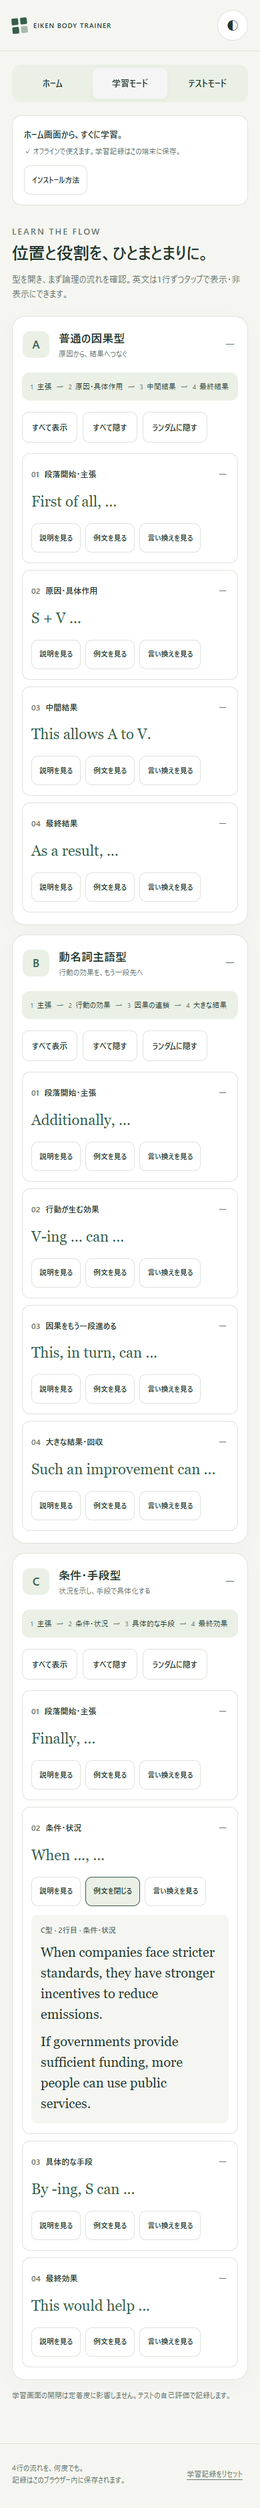
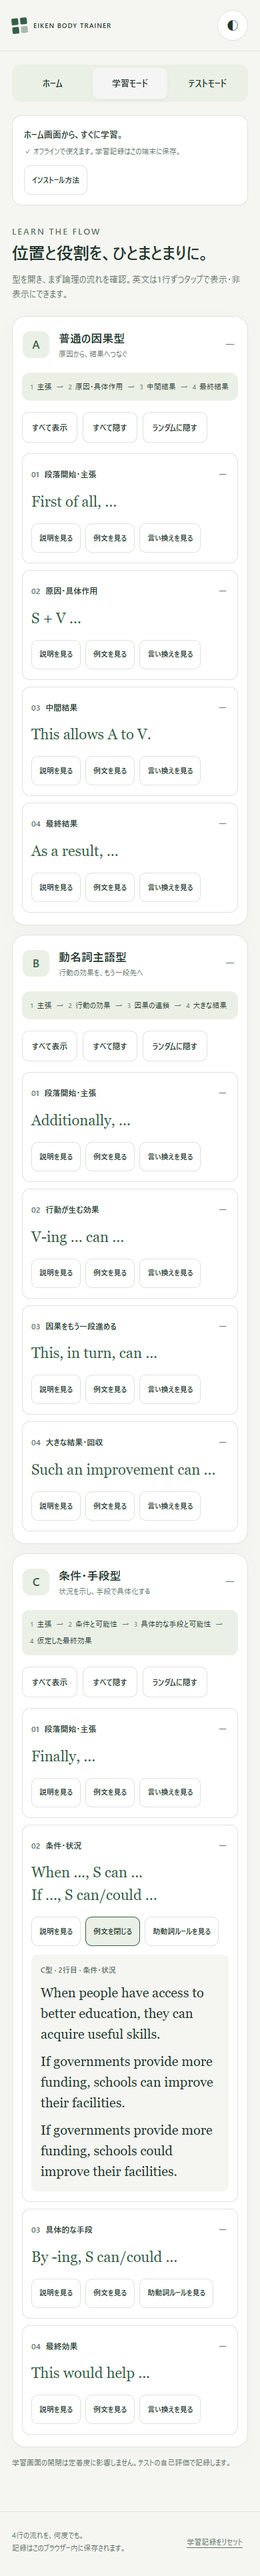
Update EIKEN Body C modal rules

Changed region(s): [[0.0308, 0.0311, 0.9231, 0.995], [0.5538, 0.9328, 0.8, 0.995]]

diff --git a/index.html b/index.html
@@ -17,6 +17,8 @@
 :root[data-theme=dark]{--bg:#17211d;--surface:#202e26;--ink:#ecf1e9;--muted:#adbeb2;--line:#3b4c40;--accent:#c4e3a6;--soft:#2b3d30;--lime:#d7ed9b;--orange:#efb17d;--shadow:none;--danger:#ffaaa3;color-scheme:dark}
 *{box-sizing:border-box}body{margin:0;background:var(--bg);color:var(--ink);font-family:system-ui,-apple-system,"Segoe UI","Yu Gothic",sans-serif;font-size:15px;line-height:1.7}button,select{font:inherit}button{cursor:pointer;color:inherit}button:disabled{cursor:default;opacity:.5}button:focus-visible,select:focus-visible,summary:focus-visible{outline:3px solid var(--orange);outline-offset:4px}button,select{touch-action:manipulation}button{min-height:46px}button:hover{filter:brightness(.96)}[hidden]{display:none!important}.wrap{max-width:980px;margin:auto;padding:0 28px}header{border-bottom:1px solid var(--line)}.header{display:flex;align-items:center;justify-content:space-between;gap:12px;min-height:89px}.brand{display:flex;gap:12px;align-items:center;font-size:13px;font-weight:800;letter-spacing:1.5px;background:none;border:0;padding:0;text-align:left}.mark{display:grid;grid-template-columns:repeat(2,10px);gap:3px;transform:rotate(-6deg)}.mark i{width:10px;height:10px;border-radius:2px;background:var(--accent)}.mark i:last-child{opacity:.4}.header-end{display:flex;align-items:center;gap:15px}.offline{font-size:11px;letter-spacing:1px;color:var(--muted)}.offline:before{content:'●';color:var(--accent);margin-right:7px}.icon-btn{border:1px solid var(--line);border-radius:50%;width:46px;background:var(--surface);font-size:18px}.navigation{display:flex;gap:4px;background:var(--soft);padding:5px;border-radius:13px;width:fit-content;margin:26px 0 0}.navigation button{border:0;background:transparent;border-radius:9px;padding:7px 23px;font-size:13px;font-weight:650}.navigation button[aria-current=page]{background:var(--surface);box-shadow:0 2px 8px #00000007}main{padding:34px 0 52px}.eyebrow{font-size:11px;font-weight:700;letter-spacing:2px;color:var(--accent);margin:0 0 12px}.hero{display:grid;grid-template-columns:1.45fr 1fr;gap:40px;align-items:center;margin:0 0 30px}.hero h1{font-size:clamp(27px,4.5vw,40px);line-height:1.5;letter-spacing:-1.4px;margin:0 0 16px}.hero h1 span{color:var(--accent)}.muted{color:var(--muted)}.hero p:not(.eyebrow){margin:0;color:var(--muted);font-size:14px}.mini-body{background:var(--soft);border:1px solid var(--line);border-radius:var(--radius);padding:23px 24px;position:relative}.mini-label{font-size:10px;letter-spacing:1.5px;font-weight:700;color:var(--muted);margin-bottom:16px}.mini-line{display:flex;align-items:center;gap:13px;margin:11px 0;font-size:13px}.mini-line span{font-size:10px;color:var(--muted);font-variant-numeric:tabular-nums}.mini-line strong{font-weight:550}.mini-line em{height:8px;background:var(--line);border-radius:5px;width:50%;display:block}.mini-line.active{padding:9px 12px;background:var(--surface);border-radius:9px;margin-inline:-12px}.mini-line.active strong{color:var(--accent)}.section-title{display:flex;align-items:baseline;justify-content:space-between;gap:10px;margin:28px 0 14px}.section-title h2{font-size:17px;margin:0}.section-title span{font-size:12px;color:var(--muted)}.mode-grid{display:grid;grid-template-columns:1fr 1fr;gap:16px}.mode-card{border:1px solid var(--line);border-radius:var(--radius);padding:24px;text-align:left;background:var(--surface);box-shadow:var(--shadow);display:grid;grid-template-columns:1fr auto;gap:5px 16px}.mode-card.primary{background:#2e503e;color:#f5f9ef;border-color:#2e503e}.mode-card .mode-icon{font-size:22px;grid-column:1}.mode-card .kicker{font-size:10px;letter-spacing:1.8px;opacity:.65;grid-column:1}.mode-card strong{font-size:23px;grid-column:1}.mode-card .desc{font-size:13px;opacity:.75;grid-column:1}.mode-card .arrow{grid-column:2;grid-row:1/5;align-self:center;background:var(--soft);border-radius:50%;width:39px;height:39px;display:grid;place-items:center;font-size:20px}.mode-card.primary .arrow{background:var(--lime);color:#263d2d}.stats{display:grid;grid-template-columns:repeat(3,1fr);gap:0;margin:28px 0;border:1px solid var(--line);border-radius:16px;background:var(--surface);padding:18px 0}.stat{text-align:center;border-right:1px solid var(--line)}.stat:last-child{border:0}.stat strong{font-size:25px;font-weight:700;display:block;line-height:1.35}.stat strong small{font-size:12px;font-weight:400;margin-left:3px}.stat span{font-size:11px;color:var(--muted)}.mastery-grid{display:grid;grid-template-columns:repeat(2,1fr);gap:12px}.mastery-card{border:1px solid var(--line);background:var(--surface);border-radius:14px;padding:17px 19px}.mastery-top{display:flex;justify-content:space-between;align-items:center;gap:8px}.mastery-name{font-size:13px;font-weight:600}.letter{display:inline-grid;place-items:center;background:var(--soft);color:var(--accent);width:27px;height:27px;border-radius:7px;margin-right:8px;font-weight:700;font-size:12px}.mastery-top strong{font-size:17px;color:var(--accent)}.bar{height:5px;background:var(--soft);border-radius:5px;overflow:hidden;margin:13px 0 8px}.bar span{height:100%;display:block;background:var(--accent);border-radius:5px}.mastery-card small{font-size:10px;color:var(--muted)}.method{margin:27px 0 0;padding:20px;border:1px dashed var(--line);border-radius:14px;display:flex;gap:18px;align-items:center}.method .big{font-size:23px}.method strong{font-size:13px}.method p{margin:4px 0 0;color:var(--muted);font-size:12px}.page-head{margin-bottom:22px}.page-head h1{font-size:28px;margin:0 0 7px;letter-spacing:-.5px}.page-head p{margin:0;font-size:13px;color:var(--muted)}.pattern{background:var(--surface);border:1px solid var(--line);border-radius:var(--radius);margin-bottom:14px;overflow:hidden;box-shadow:var(--shadow)}.pattern-toggle{width:100%;border:0;background:transparent;display:flex;align-items:center;justify-content:space-between;text-align:left;padding:22px;gap:10px}.pattern-toggle .letter{width:40px;height:40px;font-size:17px;border-radius:11px;margin:0 14px 0 0}.pattern-toggle .title{display:flex;align-items:center}.pattern-toggle strong{font-size:19px}.pattern-toggle small{display:block;font-size:11px;color:var(--muted);font-weight:400}.chevron{color:var(--muted);font-size:22px}.pattern-content{padding:0 22px 23px}.flow{display:flex;align-items:center;gap:8px;flex-wrap:wrap;font-size:12px;background:var(--soft);border-radius:11px;padding:15px;margin:0 0 17px}.flow .flow-number{display:inline-block;font-size:10px;color:var(--muted);margin-right:5px}.flow .flow-arrow{color:var(--muted)}.tools{display:flex;gap:8px;flex-wrap:wrap;margin:16px 0}.btn{border:1px solid var(--line);border-radius:10px;padding:8px 14px;background:var(--surface);font-size:12px;font-weight:600}.btn.solid{background:var(--accent);color:var(--bg);border-color:var(--accent)}.slot{border:1px solid var(--line);border-radius:12px;margin-top:10px;overflow:hidden}.slot-toggle{display:block;background:transparent;width:100%;border:0;text-align:left;padding:16px 18px}.slot-label{display:flex;justify-content:space-between;gap:8px;align-items:center;font-size:12px;font-weight:650}.slot-label .number{color:var(--muted);margin-right:8px;font-variant-numeric:tabular-nums}.slot-label .toggle-symbol{font-size:18px;font-weight:400;color:var(--muted)}.answer-prompt{display:block;color:var(--muted);font-size:13px;margin-top:12px;border:1px dashed var(--line);border-radius:8px;padding:10px 13px;background:var(--bg)}.english{font-family:Georgia,"Times New Roman",serif;font-size:23px;line-height:1.55;overflow-wrap:anywhere}.slot-toggle .english{display:block;margin-top:9px;color:var(--accent);animation:appear .15s ease-out}.slot-details{padding:0 18px 17px}.detail-buttons{display:flex;gap:7px;flex-wrap:wrap}.detail-buttons button{font-size:11px;min-height:44px;padding:7px 11px;font-weight:500}.detail-buttons button[aria-expanded=true]{background:var(--soft);border-color:var(--accent)}.detail-content{font-size:13px;margin-top:13px;padding:14px;background:var(--bg);border-radius:9px;animation:appear .15s ease-out}.detail-content p{margin:0 0 10px}.detail-content p:last-child{margin-bottom:0}.detail-content .english{font-size:20px}.context-label{font-size:11px;font-weight:600;color:var(--muted);margin-bottom:9px}.note{font-size:12px;color:var(--muted);border-left:3px solid var(--orange);padding-left:10px;margin-top:12px!important}.test-controls{display:flex;gap:10px;justify-content:space-between;align-items:center;flex-wrap:wrap;margin:0 0 18px}.test-filters{display:flex;gap:6px;flex-wrap:wrap}.test-filters button[aria-pressed=true]{background:var(--accent);color:var(--bg);border-color:var(--accent)}select{border:1px solid var(--line);background:var(--surface);color:var(--ink);border-radius:10px;padding:10px;font-size:12px;min-height:46px;max-width:100%}.test-meta{display:flex;justify-content:space-between;align-items:center;font-size:11px;color:var(--muted);gap:10px;margin:0 0 13px}.test-meta .counter{font-variant-numeric:tabular-nums;font-weight:700}.session-bar{height:4px;background:var(--line);margin:0 0 21px;border-radius:5px;overflow:hidden}.session-bar span{display:block;height:100%;background:var(--accent)}.test-card{padding:26px;border:1px solid var(--line);border-radius:var(--radius);background:var(--surface)}.test-card h2{font-size:20px;margin:0 0 15px}.test-card .instruction{font-size:14px;margin:18px 0}.question-lines{display:grid;gap:10px;margin:17px 0}.context-row{display:flex;gap:13px;padding:9px 0;align-items:baseline}.context-row .idx{color:var(--muted);font-size:11px;flex:0 0 18px}.context-row .english{font-size:21px}.blank{display:block;width:100%;border:1px dashed var(--accent);background:var(--soft);border-radius:10px;padding:14px;color:var(--accent);font-size:13px}.reveal-btn{width:100%;min-height:60px;border:1px dashed var(--accent);border-radius:12px;background:var(--soft);color:var(--accent);font-weight:600;font-size:14px;margin-top:15px}.test-answer{border-top:1px solid var(--line);margin-top:21px;padding-top:19px;animation:appear .15s ease-out}.test-answer p{margin:8px 0}.test-answer .english{color:var(--accent)}.rating-label{font-size:12px;color:var(--muted);margin:23px 0 9px}.ratings{display:grid;grid-template-columns:repeat(3,1fr);gap:9px}.ratings button{border:1px solid var(--line);background:var(--bg);border-radius:11px;min-height:56px;font-weight:650;font-size:14px}.ratings button:first-child{background:var(--soft);color:var(--accent)}.ratings button:last-child{color:var(--danger)}.test-tip{text-align:center;font-size:11px;color:var(--muted);margin-top:18px}.completion{text-align:center;padding:35px 10px}.completion .medal{font-size:40px}.completion h2{font-size:23px}.completion .tools{justify-content:center}.feedback{font-size:12px;color:var(--accent);min-height:25px;margin:12px 0 0}.warning{background:var(--soft);border:1px solid var(--orange);border-radius:10px;padding:12px;font-size:12px;margin:20px 0;color:var(--ink)}footer{border-top:1px solid var(--line);padding:22px 0 28px;color:var(--muted);font-size:11px}.footer-content{display:flex;justify-content:space-between;align-items:center;gap:12px;flex-wrap:wrap}.reset-btn{border:0;background:none;color:var(--muted);font-size:11px;text-decoration:underline;text-underline-offset:4px;padding:8px}.fine{font-size:11px;color:var(--muted);margin-top:12px}.sr-only{position:absolute;width:1px;height:1px;padding:0;margin:-1px;overflow:hidden;clip:rect(0,0,0,0);white-space:nowrap;border:0}@keyframes appear{from{opacity:.25}to{opacity:1}}@media(prefers-reduced-motion:reduce){*{animation:none!important}}@media(max-width:640px){.wrap{padding:0 18px}.header{min-height:76px}.brand{font-size:10px;letter-spacing:1px;gap:9px}.offline{display:none}.header-end{gap:6px}.navigation{margin-top:20px;width:100%}.navigation button{flex:1;padding:7px 8px}.hero{grid-template-columns:1fr;gap:22px;margin-bottom:24px}.hero h1{letter-spacing:-.8px}.mini-body{padding:18px 21px}.mini-label{margin-bottom:9px}.mini-line{margin:7px 0}.mode-grid{gap:10px}.mode-card{padding:18px 15px;gap:5px}.mode-card strong{font-size:20px}.mode-card .desc{font-size:11px}.mode-card .arrow{grid-row:1;width:30px;height:30px;font-size:17px}.mode-card .kicker{font-size:9px;letter-spacing:1px}.mastery-grid{grid-template-columns:1fr}.stats{margin:22px 0;padding:16px 0}.stat strong{font-size:23px}.section-title span{font-size:10px}.pattern-toggle{padding:18px 15px}.pattern-toggle strong{font-size:17px}.pattern-content{padding:0 14px 18px}.flow{gap:7px;padding:12px;font-size:11px}.slot-toggle{padding:15px 13px}.slot-details{padding:0 13px 15px}.english{font-size:22px}.test-card{padding:19px 15px}.context-row .english{font-size:20px}.test-controls{gap:12px}.test-filters .btn{padding:7px 10px;font-size:11px}.ratings{gap:7px}.ratings button{font-size:13px}.method{padding:16px;gap:12px}.page-head h1{font-size:25px}main{padding-top:28px}.test-card h2{font-size:18px}}
 .pwa-panel{margin-top:20px;padding:15px 17px;border:1px solid var(--line);border-radius:14px;background:var(--surface);display:flex;flex-wrap:wrap;gap:12px;align-items:center;justify-content:space-between}.pwa-panel strong{font-size:13px}.pwa-panel p{font-size:11px;color:var(--muted);margin:3px 0 0}.pwa-help{width:100%;border-top:1px solid var(--line);padding-top:10px}.pwa-help p{font-size:12px}
+.english{white-space:pre-line}
+.slot-toggle .english{white-space:pre-line}
 </style>
 </head>
 <body>
@@ -40,14 +42,14 @@ const PATTERNS = [
   {role:'因果をもう一段進める',base:'This, in turn, can ...',explain:'直前の結果を受け、その結果がさらに何を生むかを書く。Thisの指す内容を明確にし、同じ効果を繰り返さず因果を一段進める。',examples:['This, in turn, can increase their incomes.','This, in turn, can create more employment opportunities.'],alternatives:['In turn, this can ...','This can then ...']},
   {role:'大きな結果・回収',base:'Such an improvement can ...',explain:'ここまでの因果を、生活や社会全体への大きな効果へまとめる。Suchが受ける内容に合った名詞を選ぶ。',examples:['Such an improvement can raise living standards.','Such a change can benefit society as a whole.'],alternatives:['Such a change can ...','This could ultimately ...','This development can ...'],note:'improvement = 良い方向への変化。change = 中立的な変化。development = 発展・新たな動き。couldはcanより控えめな可能性や仮定を示す。前の文の内容と意味に合わせて選ぶ。'}
  ]},
- {id:'C',name:'条件・手段型',tag:'状況を示し、手段で具体化する',flow:['主張','条件・状況','具体的な手段','最終効果'],context:['Finally, stricter environmental standards can protect public health.','When companies face stricter standards, they have stronger incentives to reduce emissions.','By adopting cleaner technologies, companies can reduce air pollution.','This would help protect public health.'],slots:[
+ {id:'C',name:'条件・手段型',tag:'状況を示し、手段で具体化する',flow:['主張','条件と可能性','具体的な手段と可能性','仮定した最終効果'],context:['Finally, expanding investment in education can promote equal opportunity.','When people have access to better education, they can acquire useful skills.','By providing additional financial support, governments could improve access to education.','This would help reduce inequality.'],slots:[
   {role:'段落開始・主張',base:'Finally, ...',explain:'最後のBodyの理由を示す。条件や状況を置き、具体的な手段によって主張を支える。',examples:['Finally, stricter environmental standards can protect public health.','Finally, better public transport can make cities more livable.'],alternatives:['Lastly, ...']},
-  {role:'条件・状況',base:'When ..., ...',explain:'どのような状況でその効果が起こるのかを示す。状況・条件と、そのもとで起きる作用を結ぶ。',examples:['When companies face stricter standards, they have stronger incentives to reduce emissions.','If governments provide sufficient funding, more people can use public services.'],alternatives:['If ..., ...'],note:'When：実際に起こる一般的な状況。If：条件・仮定。完全な同義語として置き換えず、言いたい内容に合わせて選ぶ。',prompt:'一般的な状況ではなく、条件・仮定として書く表現と、その意味の違いを思い出してください。'},
-  {role:'具体的な手段',base:'By -ing, S can ...',explain:'「〜することで」と、結果を生む具体的な手段を書く。Byの後には動名詞。基本的にその行動をする主体を、続く文の主語Sと一致させる。',examples:['By investing in public transport, governments can reduce traffic congestion.','By adopting cleaner technologies, companies can reduce pollution.'],alternatives:['By -ing, S could ...','By -ing, S would be able to ...'],note:'can：可能・能力。could：控えめな可能性や仮定。would be able to：想定した条件のもとで可能になること。意味に応じて選ぶ。',prompt:'手段の形を保ち、可能性・仮定の強さを変える代案と、その意味の違いを思い出してください。'},
-  {role:'最終効果',base:'This would help ...',explain:'直前の手段・結果がもたらす大きな効果を示して、段落の主張を回収する。Thisの指す内容と、wouldの前提を意識する。',examples:['This would help protect the environment.','This would help reduce inequality.'],alternatives:['This could help ...','This would contribute to + N.','This could lead to + N.'],note:'helpの後は動詞の原形（またはto＋原形）。contribute to / lead toのtoは前置詞なので、その後は名詞Nまたは動名詞。couldは控えめな可能性、wouldは想定条件下の結果。contribute toは「貢献する」、lead toは「つながる」。効果に応じて選ぶ。'}
+  {role:'条件・状況',base:'When ..., S can ...\nIf ..., S can/could ...',explain:'When + 現在形：実際に起こる一般的な状況を表し、後半は基本 can を使う。\n\nIf + 現在形：条件を表し、後半は can または could。\n\ncan：条件が満たされれば「〜できる」という比較的直接的な可能性。\ncould：「〜できる可能性がある」と少し控えめに述べる。\n\n今回の基本形では If + 現在形を使う。If + 過去形, would ... の仮定法は対象にしない。',examples:['When people have access to better education, they can acquire useful skills.','If governments provide more funding, schools can improve their facilities.','If governments provide more funding, schools could improve their facilities.'],alternatives:['When + 現在形 → 後半は基本 can','If + 現在形 → 後半は can / could'],note:'When + 現在形 → can。If + 現在形 → can / could。When / Ifは状況と条件の違いを表し、完全な同義語ではありません。',prompt:'一般的な状況と条件で、When / If の後の時制と後半の助動詞をどう選ぶか思い出してください。'},
+  {role:'具体的な手段',base:'By -ing, S can/could ...',explain:'By + 動名詞で、結果を生む具体的な手段を書く。基本的にその行動をする主体を、続く文の主語Sと一致させる。\n\n一般的・実際の効果なら can：「〜することで、一般的に／実際に〜できる」。\n少し控えめな可能性なら could：「〜することで、〜できる可能性がある」。',examples:['By investing in public transport, governments can reduce traffic congestion.','By providing additional financial support, governments could improve access to education.'],alternatives:['一般的・実際の効果 → can','少し控えめな可能性 → could'],note:'By -ingの後の助動詞は、意味に合わせて can / could を選ぶ。would be able to は基本形・暗記対象から外す。',prompt:'一般的・実際の効果を述べる場合と、少し控えめな可能性を述べる場合で、それぞれ助動詞を思い出してください。'},
+  {role:'最終効果',base:'This would help ...',explain:'【まず覚える基本形】This would help ...\n\n直前までに述べた条件・手段を実行した場合に生じる結果をまとめるため、仮定した結果を示す would が自然。段落の主張をここで回収する。',examples:['This would help reduce inequality.','This would help protect public health.'],alternatives:['This could help ...','This would contribute to + N.','This could lead to + N.'],note:'まず This would help ... を覚える。helpの後は動詞の原形（またはto＋原形）。could help / could lead to は、可能性を控えめに述べる。would contribute to は条件を実行した場合の結果を述べる。contribute to / lead to のtoの後は名詞Nまたは動名詞。'}
  ]}
 ];
-const QUESTIONS=PATTERNS.flatMap(p=>[{id:p.id+'-whole',kind:'whole',pattern:p.id},...p.slots.map((s,i)=>({id:p.id+'-slot-'+i,kind:'slot',pattern:p.id,slot:i})),...p.slots.flatMap((s,i)=>s.alternatives.length?[{id:p.id+'-alt-'+i,kind:'alt',pattern:p.id,slot:i}]:[])]);
+const QUESTIONS=PATTERNS.flatMap(p=>[{id:p.id+'-whole',kind:'whole',pattern:p.id},...p.slots.map((s,i)=>({id:p.id+'-slot-'+i,kind:'slot',pattern:p.id,slot:i})),...p.slots.flatMap((s,i)=>s.alternatives.length?[{id:p.id+'-alt-'+i,kind:p.id==='C'&&(i===1||i===2)?'grammar':'alt',pattern:p.id,slot:i}]:[])]);
 const KEY='eiken-body-trainer.learning.v1';
 const emptyState=()=>({version:1,records:{},streak:0,best:0});
 let warning='',storageBlocked=false;
@@ -67,15 +69,16 @@ function mastery(qs){const total=qs.reduce((n,q)=>{const r=record(q.id);return n
 function metrics(){const rs=Object.values(state.records);return {learned:rs.filter(r=>ratingCount(r)>0).length,weak:rs.filter(r=>r.lastRating==='fail'||r.lastRating==='unsure').length};}
 function flow(p){return '<div class="flow" aria-label="論理の流れ">'+p.flow.map((s,i)=>`${i?'<span class="flow-arrow" aria-hidden="true">→</span>':''}<span><span class="flow-number">${i+1}</span>${s}</span>`).join('')+'</div>';}
 function home(){const m=metrics();return `<section class="hero"><div><p class="eyebrow">WRITE WITH A CLEAR STRUCTURE</p><h1>表現より先に、<br><span>4行の流れを覚えよう。</span></h1><p>「今、どんな役割の文を書く場所か。」<br>役割 → 基本表現 → 例文 → 言い換え。<br>短い反復で、Bodyを自分のものに。</p></div><div class="mini-body" aria-label="学習のイメージ"><div class="mini-label">A / BODY STRUCTURE</div><div class="mini-line"><span>01</span><strong>段落開始・主張</strong></div><div class="mini-line"><span>02</span><strong>原因・具体作用</strong></div><div class="mini-line active"><span>03</span><strong>中間結果</strong><span style="margin-left:auto">↗</span></div><div class="mini-line"><span>04</span><strong>最終結果</strong></div></div></section><div class="mode-grid"><button class="mode-card primary" data-action="navigate" data-view="study"><span class="mode-icon" aria-hidden="true">▤</span><span class="kicker">LEARN THE FLOW</span><strong>学習モード</strong><span class="desc">4行をタップして、構成を確認</span><span class="arrow" aria-hidden="true">→</span></button><button class="mode-card" data-action="navigate" data-view="test"><span class="mode-icon" aria-hidden="true">↻</span><span class="kicker">RECALL & REPEAT</span><strong>テストモード</strong><span class="desc">思い出す → 答えを見る → 自己評価</span><span class="arrow" aria-hidden="true">→</span></button></div><div class="stats"><div class="stat"><strong>${m.learned}<small>/ ${QUESTIONS.length}</small></strong><span>学習した問題数</span></div><div class="stat"><strong>${m.weak}<small>問</small></strong><span>△・× 苦手数</span></div><div class="stat"><strong>${state.streak}<small>回</small></strong><span>✓ 連続「言えた」</span></div></div><div class="section-title"><h2>いまの定着度</h2><span>未学習も含めた自己評価の目安</span></div><div class="mastery-grid">${[...PATTERNS.map(p=>({label:p.name,letter:p.id,qs:QUESTIONS.filter(q=>q.pattern===p.id&&q.kind!=='alt')})),{label:'言い換え',letter:'↔',qs:QUESTIONS.filter(q=>q.kind==='alt')}].map(x=>{const learned=x.qs.filter(q=>ratingCount(record(q.id))>0).length;return `<div class="mastery-card"><div class="mastery-top"><span class="mastery-name"><span class="letter">${x.letter}</span>${x.label}</span><strong>${mastery(x.qs)}%</strong></div><div class="bar"><span style="width:${mastery(x.qs)}%"></span></div><small>${learned?`${learned} / ${x.qs.length} 問を学習済み`:'未学習 · まずは4行の流れから'}</small></div>`;}).join('')}</div><p class="fine">定着度：各問題の「言えた」= 100、「怪しい」= 50、「無理」・未学習 = 0として平均。型の定着度は型まるごと＋スロット想起、言い換えは別集計です。</p><div class="method"><span class="big" aria-hidden="true">◎</span><div><strong>1セット10問。短く、何度でも。</strong><p>無理 → 怪しい → 未学習 → 言えた の順に優先。<br>苦手な「位置と役割」を、もう一度思い出そう。</p></div></div>`;}
-function details(p,s,i){const id=p.id+'-'+i;return `<div class="slot-details"><div class="detail-buttons">${[['explain','説明'],['examples','例文'],['alternatives','言い換え']].map(([k,label])=>`<button class="btn" data-action="detail" data-id="${id}" data-kind="${k}" aria-expanded="${!!detailOpen[id+'-'+k]}" aria-controls="${id+'-'+k}">${label}${detailOpen[id+'-'+k]?'を閉じる':'を見る'}</button>`).join('')}</div>${['explain','examples','alternatives'].map(k=>`<div class="detail-content" id="${id+'-'+k}" ${detailOpen[id+'-'+k]?'':'hidden'}>${detailOpen[id+'-'+k]?`<div class="context-label">${p.id}型 · ${i+1}行目 · ${s.role}</div>`+(k==='explain'?`<p>${esc(s.explain)}</p>`:k==='examples'?s.examples.map(e=>`<p class="english" lang="en">${esc(e)}</p>`).join(''):s.alternatives.length?s.alternatives.map(e=>`<p class="english" lang="en">${esc(e)}</p>`).join(''):'<p>固定フレーズの言い換えはありません。原因となる主語と動詞で具体化します。</p>')+(s.note&&k!=='examples'?`<p class="note">${esc(s.note)}</p>`:''):''}</div>`).join('')}</div>`;}
+function details(p,s,i){const id=p.id+'-'+i;return `<div class="slot-details"><div class="detail-buttons">${[['explain','説明'],['examples','例文'],['alternatives',p.id==='C'&&(i===1||i===2)?'助動詞ルール':'言い換え']].map(([k,label])=>`<button class="btn" data-action="detail" data-id="${id}" data-kind="${k}" aria-expanded="${!!detailOpen[id+'-'+k]}" aria-controls="${id+'-'+k}">${label}${detailOpen[id+'-'+k]?'を閉じる':'を見る'}</button>`).join('')}</div>${['explain','examples','alternatives'].map(k=>`<div class="detail-content" id="${id+'-'+k}" ${detailOpen[id+'-'+k]?'':'hidden'}>${detailOpen[id+'-'+k]?`<div class="context-label">${p.id}型 · ${i+1}行目 · ${s.role}</div>`+(k==='explain'?`<p>${esc(s.explain)}</p>`:k==='examples'?s.examples.map(e=>`<p class="english" lang="en">${esc(e)}</p>`).join(''):s.alternatives.length?s.alternatives.map(e=>`<p class="english" lang="en">${esc(e)}</p>`).join(''):'<p>固定フレーズの言い換えはありません。原因となる主語と動詞で具体化します。</p>')+(s.note&&k!=='examples'?`<p class="note">${esc(s.note)}</p>`:''):''}</div>`).join('')}</div>`;}
 function study(){return `<div class="page-head"><p class="eyebrow">LEARN THE FLOW</p><h1>位置と役割を、ひとまとまりに。</h1><p>型を開き、まず論理の流れを確認。英文は1行ずつタップで表示・非表示にできます。</p></div>${PATTERNS.map(p=>`<section class="pattern"><button class="pattern-toggle" data-action="pattern" data-pattern="${p.id}" aria-expanded="${studyOpen[p.id]}" aria-controls="pattern-${p.id}"><span class="title"><span class="letter">${p.id}</span><span><strong>${p.name}</strong><small>${p.tag}</small></span></span><span class="chevron" aria-hidden="true">${studyOpen[p.id]?'−':'＋'}</span></button><div class="pattern-content" id="pattern-${p.id}" ${studyOpen[p.id]?'':'hidden'}>${studyOpen[p.id]?flow(p)+`<div class="tools"><button class="btn" data-action="all" data-pattern="${p.id}" data-show="yes">すべて表示</button><button class="btn" data-action="all" data-pattern="${p.id}" data-show="no">すべて隠す</button><button class="btn" data-action="random" data-pattern="${p.id}">ランダムに隠す</button></div>`+p.slots.map((s,i)=>{const id=p.id+'-'+i;return `<div class="slot"><button class="slot-toggle" data-action="slot" data-id="${id}" aria-expanded="${!!slotOpen[id]}" aria-controls="answer-${id} details-${id}"><span class="slot-label"><span><span class="number">0${i+1}</span>${s.role}</span><span class="toggle-symbol" aria-hidden="true">${slotOpen[id]?'−':'＋'}</span></span>${slotOpen[id]?`<span id="answer-${id}" class="english" lang="en">${esc(s.base)}</span>`:`<span id="answer-${id}" class="answer-prompt">タップして答えを見る</span>`}</button><div id="details-${id}" ${slotOpen[id]?'':'hidden'}>${slotOpen[id]?details(p,s,i):''}</div></div>`;}).join(''):''}</div></section>`).join('')}<p class="fine">学習画面の開閉は定着度に影響しません。テストの自己評価で記録します。</p>`;}
-const kindLabels={whole:'型まるごと',slot:'スロット',alt:'言い換え'};
+const kindLabels={whole:'型まるごと',slot:'スロット',alt:'言い換え',grammar:'助動詞ルール'};
+const questionKindLabel=q=>kindLabels[q.kind];
 function priority(q){const r=record(q.id);return r.lastRating==='fail'?3:r.lastRating==='unsure'?2:r.lastRating===null?1:0;}
 function choose(pool,history){let eligible=pool.filter(q=>q.id!==history.at(-1));if(!eligible.length)eligible=pool;const max=Math.max(...eligible.map(priority));eligible=eligible.filter(q=>priority(q)===max);const nonRecent=eligible.filter(q=>!history.slice(-2).includes(q.id));if(nonRecent.length)eligible=nonRecent;const min=Math.min(...eligible.map(q=>record(q.id).asked));eligible=eligible.filter(q=>record(q.id).asked===min);return eligible[Math.floor(Math.random()*eligible.length)];}
 function nextQuestion(){const pool=QUESTIONS.filter(q=>(filter==='all'||q.kind===filter)&&(patternFilter==='all'||q.pattern===patternFilter));current=choose(pool,previous);previous.push(current.id);previous=previous.slice(-3);revealed=false;const r=record(current.id);r.asked++;state.records[current.id]=r;save();}
 function startSession(){completed=0;sessionGood=0;feedback='';previous=[];nextQuestion();}
-function testQuestion(){const q=current,p=PATTERNS.find(p=>p.id===q.pattern),s=p.slots[q.slot];let body='';if(q.kind==='whole'){body=flow(p)+'<p class="instruction">4行を、順番に頭の中で再生してください。</p>';}else if(q.kind==='slot'){body=`<div class="context-label">${p.id}型 · ${q.slot+1}行目 · ${s.role}</div><div class="question-lines">${p.context.map((line,i)=>`<div class="context-row"><span class="idx">0${i+1}</span>${i===q.slot?`<span class="blank">${i+1}行目を思い出してください<br>${s.role}</span>`:`<span class="english" lang="en">${esc(line)}</span>`}</div>`).join('')}</div><p class="fine">前後の文から、この位置の役割と英文を思い出します。意味がつながれば、答えと一字一句同じでなくてもOK。</p>`;}else{body=flow(p)+`<div class="context-label">${p.id}型 · ${q.slot+1}行目 · ${s.role}</div><p class="instruction">Body 1で、この表現を使いました。</p><p class="english" lang="en">${esc(s.base)}</p><p class="instruction">Body 2の同じ「${s.role}」の位置で、${s.prompt?esc(s.prompt):'重複を避ける別表現を1つ思い出してください。'}</p>`;}let answer='';if(revealed){answer=`<div class="test-answer" id="test-answer"><div class="context-label">${q.kind==='slot'?'解答例':'答え'} · ${p.id}型${q.kind!=='whole'?` · ${q.slot+1}行目 · ${s.role}`:''}</div>${q.kind==='whole'?p.slots.map((sl,i)=>`<div class="context-row"><span class="idx">0${i+1}</span><div><div class="context-label">${sl.role}</div><div class="english" lang="en">${esc(sl.base)}</div></div></div>`).join(''):q.kind==='slot'?`<p class="english" lang="en">${esc(p.context[q.slot])}</p><p class="english" lang="en">${esc(s.base)}</p><p>${esc(s.explain)}</p>`:s.alternatives.map(a=>`<p class="english" lang="en">${esc(a)}</p>`).join('')}${q.kind!=='whole'&&s.note?`<p class="note">${esc(s.note)}</p>`:''}${q.kind==='whole'&&p.id==='A'?'<p class="note">S + Vは主語＋動詞の骨格です。固定フレーズではありません。</p>':''}<p class="rating-label">思い出せた度合いを、自己評価してください。</p><div class="ratings"><button data-action="rate" data-rating="good">✓ 言えた</button><button data-action="rate" data-rating="unsure">△ 怪しい</button><button data-action="rate" data-rating="fail">× 無理</button></div></div>`;}return `<div class="test-meta"><span>${kindLabels[q.kind]}想起 · ${record(q.id).lastRating?({good:'✓ 前回：言えた',unsure:'△ 前回：怪しい',fail:'× 前回：無理'}[record(q.id).lastRating]):'未学習'}</span><span class="counter">${completed+1} / 10</span></div><div class="session-bar" aria-label="${completed}問完了"><span style="width:${completed*10}%"></span></div><section class="test-card"><p class="eyebrow">${p.id} / ${kindLabels[q.kind].toUpperCase()} RECALL</p><h2 tabindex="-1" id="question-heading">${p.id}：${p.name}</h2>${body}<button class="reveal-btn" data-action="reveal" aria-expanded="${revealed}" aria-controls="test-answer">${revealed?'答えを隠して、もう一度思い出す':'タップして答えを見る'}</button>${revealed?answer:'<div id="test-answer" hidden></div>'}</section><p class="test-tip">${metrics().weak}問が苦手 · 連続「言えた」${state.streak}回<br>無理 → 怪しい → 未学習 → 言えた を優先。直前と同じ問題は避けます。</p>`;}
-function test(){return `<div class="page-head"><p class="eyebrow">RECALL & REPEAT</p><h1>見ずに、思い出してみよう。</h1><p>頭の中で再生 → 答えを確認 → 自己評価。10問でひと区切り。</p></div><div class="test-controls"><div class="test-filters" aria-label="テスト種別">${[['all','ミックス'],['whole','型まるごと'],['slot','スロット'],['alt','言い換え']].map(([id,label])=>`<button class="btn" data-action="filter" data-filter="${id}" aria-pressed="${filter===id}">${label}</button>`).join('')}</div><label><span class="sr-only">出題する型</span><select id="pattern-filter"><option value="all">すべての型</option>${PATTERNS.map(p=>`<option value="${p.id}" ${patternFilter===p.id?'selected':''}>${p.id}：${p.name}</option>`).join('')}</select></label></div>${completed>=10?`<section class="test-card completion"><div class="medal" aria-hidden="true">◎</div><p class="eyebrow">NICE PRACTICE</p><h2 tabindex="-1" id="question-heading">10問、おつかれさまでした。</h2><p>✓ 言えた ${sessionGood} / 10問<br>次のセットでも苦手を優先します。</p><div class="tools"><button class="btn solid" data-action="continue">もう10問続ける</button><button class="btn" data-action="navigate" data-view="home">定着度を見る</button></div></section>`:testQuestion()}<p class="feedback" role="status">${esc(feedback)}</p><p class="fine">種別・型を変更すると新しい10問を始めます。すでに行った自己評価は保存されます。</p>`;}
+function testQuestion(){const q=current,p=PATTERNS.find(p=>p.id===q.pattern),s=p.slots[q.slot],kindName=questionKindLabel(q);let body='';if(q.kind==='whole'){body=flow(p)+'<p class="instruction">4行を、順番に頭の中で再生してください。</p>';}else if(q.kind==='slot'){body=`<div class="context-label">${p.id}型 · ${q.slot+1}行目 · ${s.role}</div><div class="question-lines">${p.context.map((line,i)=>`<div class="context-row"><span class="idx">0${i+1}</span>${i===q.slot?`<span class="blank">${i+1}行目を思い出してください<br>${s.role}</span>`:`<span class="english" lang="en">${esc(line)}</span>`}</div>`).join('')}</div><p class="fine">前後の文から、この位置の役割と英文を思い出します。意味がつながれば、答えと一字一句同じでなくてもOK。</p>`;}else if(q.id==='C-alt-1'){body=flow(p)+`<div class="context-label">C型 · 2行目 · 条件・状況 · 助動詞</div><p class="instruction">それぞれの状況に合う助動詞を、思い出してください。</p><p class="english" lang="en">When people have access to better education, they ______ acquire useful skills.</p><p class="english" lang="en">If governments provide more funding, schools ______ improve their facilities.</p><p class="instruction">条件の形と、後半に使う助動詞の選び方も確認します。</p>`;}else if(q.id==='C-alt-2'){body=flow(p)+`<div class="context-label">C型 · 3行目 · 具体的な手段 · 助動詞</div><p class="english" lang="en">By providing additional financial support, governments ______ improve access to education.</p><p class="instruction">一般的・実際の効果の場合と、少し控えめな可能性の場合。意味に合う形を思い出してください。</p>`;}else{body=flow(p)+`<div class="context-label">${p.id}型 · ${q.slot+1}行目 · ${s.role} · ${kindName}</div><p class="instruction">このBody位置で、意味に合う形を思い出してください。</p><p class="english" lang="en">${esc(s.base)}</p><p class="instruction">${s.prompt?esc(s.prompt):'重複を避ける別表現を1つ思い出してください。'}</p>`;}let answer='';if(revealed){answer=`<div class="test-answer" id="test-answer"><div class="context-label">${q.kind==='slot'?'解答例':'答え'} · ${p.id}型${q.kind!=='whole'?` · ${q.slot+1}行目 · ${s.role}`:''}</div>${q.kind==='whole'?p.slots.map((sl,i)=>`<div class="context-row"><span class="idx">0${i+1}</span><div><div class="context-label">${sl.role}</div><div class="english" lang="en">${esc(sl.base)}</div></div></div>`).join(''):q.kind==='slot'?`<p class="english" lang="en">${esc(p.context[q.slot])}</p><p class="english" lang="en">${esc(s.base)}</p><p>${esc(s.explain)}</p>`:s.alternatives.map(a=>`<p class="english" lang="en">${esc(a)}</p>`).join('')}${q.kind!=='whole'&&s.note?`<p class="note">${esc(s.note)}</p>`:''}${q.kind==='whole'&&p.id==='A'?'<p class="note">S + Vは主語＋動詞の骨格です。固定フレーズではありません。</p>':''}<p class="rating-label">思い出せた度合いを、自己評価してください。</p><div class="ratings"><button data-action="rate" data-rating="good">✓ 言えた</button><button data-action="rate" data-rating="unsure">△ 怪しい</button><button data-action="rate" data-rating="fail">× 無理</button></div></div>`;}return `<div class="test-meta"><span>${kindName}想起 · ${record(q.id).lastRating?({good:'✓ 前回：言えた',unsure:'△ 前回：怪しい',fail:'× 前回：無理'}[record(q.id).lastRating]):'未学習'}</span><span class="counter">${completed+1} / 10</span></div><div class="session-bar" aria-label="${completed}問完了"><span style="width:${completed*10}%"></span></div><section class="test-card"><p class="eyebrow">${p.id} / ${kindName.toUpperCase()} RECALL</p><h2 tabindex="-1" id="question-heading">${p.id}：${p.name}</h2>${body}<button class="reveal-btn" data-action="reveal" aria-expanded="${revealed}" aria-controls="test-answer">${revealed?'答えを隠して、もう一度思い出す':'タップして答えを見る'}</button>${revealed?answer:'<div id="test-answer" hidden></div>'}</section><p class="test-tip">${metrics().weak}問が苦手 · 連続「言えた」${state.streak}回<br>無理 → 怪しい → 未学習 → 言えた を優先。直前と同じ問題は避けます。</p>`;}
+function test(){return `<div class="page-head"><p class="eyebrow">RECALL & REPEAT</p><h1>見ずに、思い出してみよう。</h1><p>頭の中で再生 → 答えを確認 → 自己評価。10問でひと区切り。</p></div><div class="test-controls"><div class="test-filters" aria-label="テスト種別">${[['all','ミックス'],['whole','型まるごと'],['slot','スロット'],['grammar','助動詞ルール'],['alt','言い換え']].map(([id,label])=>`<button class="btn" data-action="filter" data-filter="${id}" aria-pressed="${filter===id}">${label}</button>`).join('')}</div><label><span class="sr-only">出題する型</span><select id="pattern-filter"><option value="all">すべての型</option>${PATTERNS.map(p=>`<option value="${p.id}" ${patternFilter===p.id?'selected':''}>${p.id}：${p.name}</option>`).join('')}</select></label></div>${completed>=10?`<section class="test-card completion"><div class="medal" aria-hidden="true">◎</div><p class="eyebrow">NICE PRACTICE</p><h2 tabindex="-1" id="question-heading">10問、おつかれさまでした。</h2><p>✓ 言えた ${sessionGood} / 10問<br>次のセットでも苦手を優先します。</p><div class="tools"><button class="btn solid" data-action="continue">もう10問続ける</button><button class="btn" data-action="navigate" data-view="home">定着度を見る</button></div></section>`:testQuestion()}<p class="feedback" role="status">${esc(feedback)}</p><p class="fine">種別・型を変更すると新しい10問を始めます。すでに行った自己評価は保存されます。</p>`;}
 function render(){document.querySelectorAll('.navigation button').forEach(b=>{if(b.dataset.view===view)b.setAttribute('aria-current','page');else b.removeAttribute('aria-current');});$('#main').innerHTML=view==='home'?home():view==='study'?study():test();showWarning();}
 function rerenderKeepingFocus(button){const action=button.dataset.action;const selector=['action','id','kind','pattern','show','filter'].filter(k=>button.dataset[k]!==undefined).map(k=>`[data-${k}="${button.dataset[k]}"]`).join('');render();if(action&&selector)document.querySelector(selector)?.focus({preventScroll:true});}
 document.addEventListener('click',e=>{const b=e.target.closest('button[data-action]');if(!b)return;const d=b.dataset;switch(d.action){case 'navigate':view=d.view;if(view==='test'&&!current)startSession();render();window.scrollTo(0,0);break;case 'pattern':studyOpen[d.pattern]=!studyOpen[d.pattern];rerenderKeepingFocus(b);break;case 'slot':slotOpen[d.id]=!slotOpen[d.id];if(!slotOpen[d.id])for(const k of ['explain','examples','alternatives'])detailOpen[d.id+'-'+k]=false;rerenderKeepingFocus(b);break;case 'detail':detailOpen[d.id+'-'+d.kind]=!detailOpen[d.id+'-'+d.kind];rerenderKeepingFocus(b);break;case 'all':for(let i=0;i<4;i++){const id=d.pattern+'-'+i;slotOpen[id]=d.show==='yes';for(const k of ['explain','examples','alternatives'])detailOpen[id+'-'+k]=false;}rerenderKeepingFocus(b);announce(d.show==='yes'?'4行をすべて表示しました':'4行をすべて隠しました');break;case 'random':{const ids=[0,1,2,3];for(let i=3;i>0;i--){const j=Math.floor(Math.random()*(i+1));[ids[i],ids[j]]=[ids[j],ids[i]];}const hide=ids.slice(0,1+Math.floor(Math.random()*3));for(let i=0;i<4;i++){const id=d.pattern+'-'+i;slotOpen[id]=!hide.includes(i);for(const k of ['explain','examples','alternatives'])detailOpen[id+'-'+k]=false;}rerenderKeepingFocus(b);announce(`${hide.length}行をランダムに隠しました`);break;}case 'reveal':revealed=!revealed;rerenderKeepingFocus(b);break;case 'rate':{if(!revealed||!current||completed>=10)return;revealed=false;const r=record(current.id);r[d.rating]++;r.lastRating=d.rating;r.lastStudy=new Date().toISOString();state.records[current.id]=r;state.streak=d.rating==='good'?state.streak+1:0;state.best=Math.max(state.best,state.streak);completed++;if(d.rating==='good')sessionGood++;feedback=({good:'✓ 言えた',unsure:'△ 怪しい',fail:'× 無理'}[d.rating])+' を記録しました。';save();if(completed<10)nextQuestion();render();$('#question-heading')?.focus({preventScroll:true});announce(feedback);break;}case 'filter':if(filter===d.filter)return;filter=d.filter;startSession();rerenderKeepingFocus(b);break;case 'continue':startSession();render();$('#question-heading')?.focus({preventScroll:true});break;case 'reset':if(!confirm('学習記録（定着度・自己評価・連続「言えた」）をすべてリセットしますか？ この操作は取り消せません。'))return;try{localStorage.removeItem(KEY);storageBlocked=false;warning='';}catch(e){warning='保存領域にアクセスできません。画面の記録だけをリセットしました。ブラウザーに残る記録は削除できていません。';}state=emptyState();current=null;completed=0;feedback='';previous=[];if(view==='test')startSession();render();announce('学習記録をリセットしました');break;}});

diff --git a/sw.js b/sw.js
@@ -1,6 +1,6 @@
 'use strict';
 // Bump VERSION when deploying changes to the offline app shell.
-const VERSION = 'v3';
+const VERSION = 'v4';
 const PREFIX = 'eiken-body-trainer:' + self.registration.scope + ':';
 const CACHE = PREFIX + VERSION;
 const base = self.registration.scope;

diff --git a/README.md b/README.md
@@ -42,7 +42,14 @@ python -m http.server 5173 --bind 127.0.0.1
 
 ## テスト
 
-型まるごと3問、文脈付きスロット12問、スロットに紐付いた言い換え11問の計26問です。A型2行目の `S + V` は英文の骨格なので、固定表現の言い換え問題にしていません。
+### C：条件・手段型
+
+- ② `When + 現在形 → 後半は基本 can`。`If + 現在形 → 後半は can / could`。
+- ③ `By -ing → can / could`。一般的・実際の効果は `can`、少し控えめな可能性は `could`。
+- ④ まず `This would help ...` を覚えます。条件・手段を実行した場合の結果を示す `would` が基本です。
+- 助動詞の選択問題は「言い換え」から分けて「助動詞ルール」として出題します。`If + 過去形, would ...` は基本暗記に含めません。
+
+型まるごと3問、文脈付きスロット12問、言い換え9問、C型の助動詞選択2問の計26問です。C型②③の助動詞確認は、同義語を選ぶ言い換えではなく、文脈に合う形を選ぶ別の問題です。A型2行目の `S + V` は英文の骨格なので、固定表現の言い換え問題にしていません。
 
 答えを見る前に頭の中で再生し、表示後に「言えた」「怪しい」「無理」を選びます。文脈付きスロットの答えは解答例です。前後の因果がつながれば、一字一句の一致は不要です。意味が変わる代案では、表現と意味の違いを一緒に思い出します。
 
@@ -71,7 +78,7 @@ python -m http.server 5173 --bind 127.0.0.1
 
 ## 確認結果
 
-2026-10-02、インストール済みChromeをPlaywrightから起動し、ローカルHTTP上で学習機能の14項目を再確認しました。実行結果は `verification-results.json`、再実行用スクリプトは `verify.cjs`、画面は `preview-*.png` です。これらの補助ファイルはアプリの利用には不要です。
+2026-10-03、インストール済みChromeをPlaywrightから起動し、ローカルHTTP上で学習機能の15項目を確認しました。C型の4行の基本表示・説明・例文・想起、旧C型問題IDの成績保持、A/B型の維持、各行の開閉、スマホ幅での横スクロールなしを含みます。実行結果は `verification-results.json`、再実行用スクリプトは `verify.cjs`、画面は `preview-*.png` です。これらの補助ファイルはアプリの利用には不要です。
 
 PWAはGitHub Pagesと同じ `/essay/` のパスで6項目を確認しました：Service Worker有効化と全アセットのキャッシュ、manifest・アイコン・Chromeのインストール条件、オフラインでのページ開き直しと進捗保存、インストール説明の操作、専用インストール画面のmanifest・追加処理・記録保持、ユーザー操作による更新と進捗・他アプリのキャッシュ保持。結果は `pwa-verification-results.json`、再実行は `node verify-pwa.cjs` です。実機でのインストール・OSからの起動は未確認です。
 
